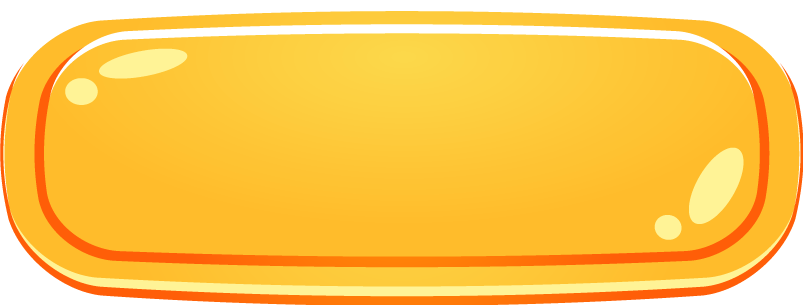
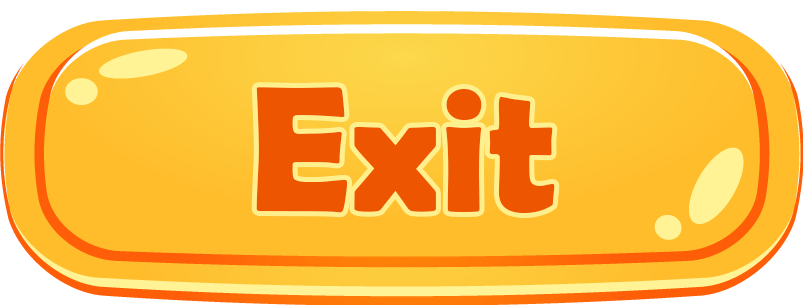
pause menu

Changed region(s): [[0.3113, 0.2656, 0.7161, 0.7377]]

diff --git a/src/draw.c b/src/draw.c
@@ -26,14 +26,12 @@ game.scenes[game.cur_scn].buttons[i].spr, NULL);
     }*/
 }
 
-int menu_pause_is_open(sfRenderWindow *window, game_t game, sfEvent event, int flag)
+int menu_pause_is_open(sfRenderWindow *window, game_t game, int flag)
 {
-    while (sfRenderWindow_pollEvent(window, &event)) {
-        if (event.type == sfEvtClosed) {
-            close_window(window);
-        }
-        if (event.key.code == sfKeyP) {
-            flag = 1;
+    if (game.scenes[2].but_nbr > 0) {
+        for (int i = 1; flag == 0 && (i - 1) != game.scenes[2].but_nbr; i++) {
+            flag = check_which_button(\
+game, i, sfMouse_getPosition(window));
         }
     }
     return (flag);
@@ -42,17 +40,23 @@ int menu_pause_is_open(sfRenderWindow *window, game_t game, sfEvent event, int f
 void draw_menu_pause(sfRenderWindow *window, game_t game)
 {
     int flag = 0;
-    sfEvent event;
-
     while (1) {
         sfRenderWindow_drawSprite(window, game.scenes[2].gm_objcts[0].spr, NULL);
         sfRenderWindow_drawSprite(window, game.scenes[2].buttons[0].spr, NULL);
         sfRenderWindow_drawSprite(window, game.scenes[2].buttons[1].spr, NULL);
         sfRenderWindow_drawSprite(window, game.scenes[2].buttons[2].spr, NULL);
         sfRenderWindow_display(window);
-        flag = menu_pause_is_open(window, game, event, flag);
+        flag = menu_pause_is_open(window, game, flag);
         if (flag == 1) {
             break;
+        }
+        if (flag == 2) {
+            game.cur_scn = 1;
+            game.scenes[1].obj_nbr = 1;
+            game.scenes[1].but_nbr = 2;
+        }
+        if (flag == 3) {
+            close_window(window);
         }
     }
 }

diff --git a/src/events.c b/src/events.c
@@ -24,31 +24,6 @@ game.scenes[game.cur_scn].buttons[but_tested - 1].spr);
     return (0);
 }
 
-game_t button_is_clicked_pause(sfRenderWindow *window, game_t game)
-{
-    int but_clicked = 0;
-    if (game.scenes[1].but_nbr > 0) {
-        for (int i = 1; but_clicked == 0 && (i - 1) != game.scenes[1].but_nbr; i++) {
-            but_clicked = check_which_button(\
-game, i, sfMouse_getPosition(window));
-        }
-    }
-    if (but_clicked == 1) {
-        game.cur_scn = 4;
-        game.scenes[4].but_nbr = 0;
-        game.scenes[4].obj_nbr = 1;
-    }
-    if (but_clicked == 2) {
-        game.cur_scn = 1;
-        game.scenes[1].obj_nbr = 1;
-        game.scenes[1].but_nbr = 2;
-    }
-    if (but_clicked == 3) {
-        close_window(window);
-    }
-    return (game);
-}
-
 game_t button_is_clicked_options(sfRenderWindow *window, game_t game)
 {
     int but_clicked = 0;
@@ -154,10 +129,6 @@ game_t button_is_clicked(sfRenderWindow *window, game_t game)
     }
     if (game.cur_scn == 0) {
         game = button_is_clicked_menu(window, game);
-        return (game);
-    }
-    if (game.cur_scn == 2) {
-        game = button_is_clicked_pause(window, game);
         return (game);
     }
     return (game);

diff --git a/include/proto.h b/include/proto.h
@@ -62,7 +62,6 @@ maps_t *init_map(void);
 void check_map(maps_t *map);
 void init_combat_scene(game_t game, sfRenderWindow *window, enemy_t *enemy);
 game_t button_is_clicked_menu(sfRenderWindow *window, game_t game);
-game_t button_is_clicked_pause(sfRenderWindow *window, game_t game);
 
 /*---------Combat RPG------------*/
 
